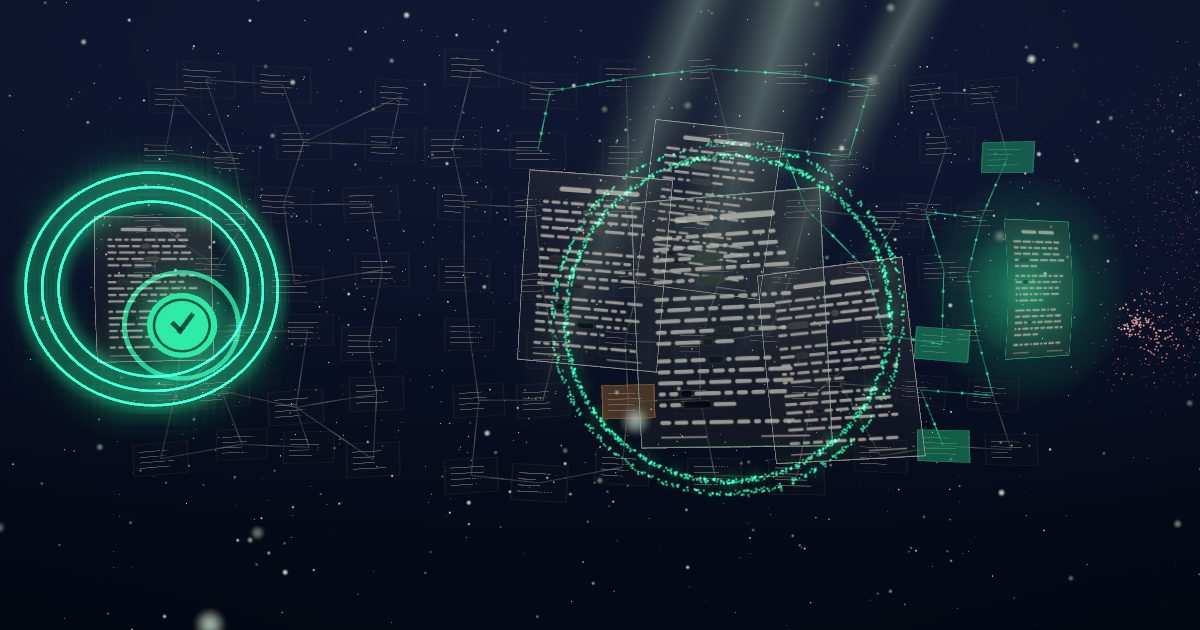
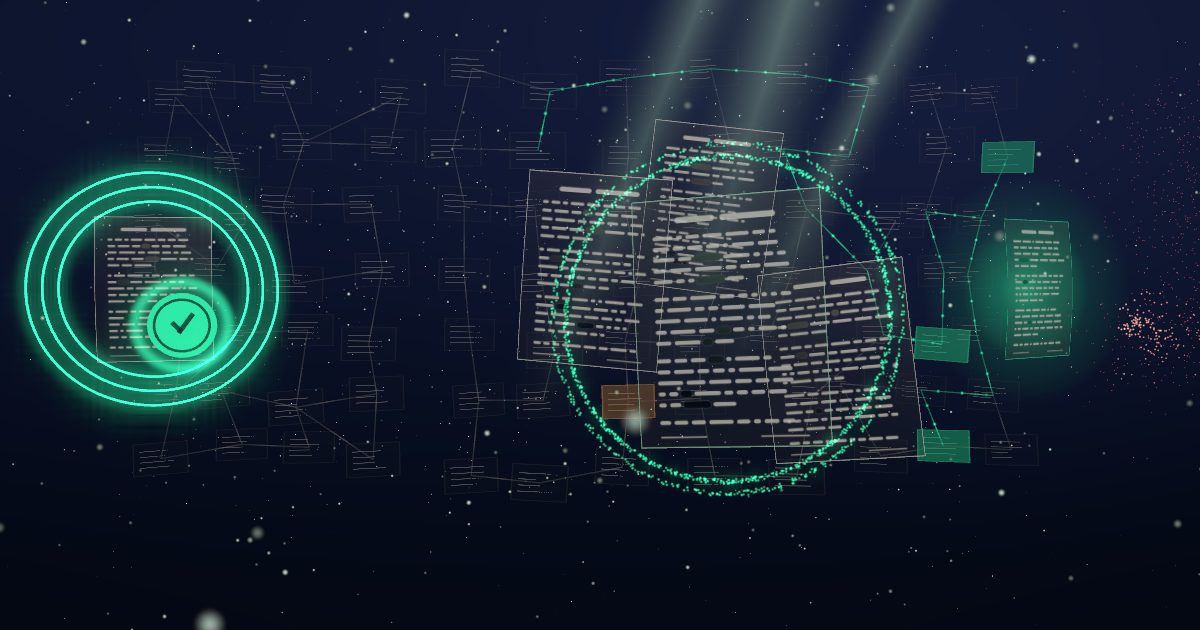
fix(frontend): dawn polish: AA seal mark, visible lattice, soft shockwave
The seal's check mark takes near-white or deep navy, whichever reads better on the seal green
(4.5:1 or more, tested for a range of greens). At dawn the law lattice has navy lines, a higher
opacity scale and a weaker distance fade (lines 3:1 on the sky). The shockwave is a gaussian ring
of saturated emerald light instead of a hard geometric ring, so it never reads as a grey disc.
The still renderer takes a scene clock (--seconds) to show the ring mid-expansion.

Refs: FR-68, NFR-08

Changed region(s): [[0.0925, 0.4222, 0.2158, 0.6032]]

diff --git a/frontend/src/features/landing/cinematic/scene.ts b/frontend/src/features/landing/cinematic/scene.ts
@@ -387,12 +387,13 @@ export function createCinematicScene(
       track(new PlaneGeometry(1.35, 0.86)),
       material(glsl.latticeVertex, glsl.latticeFragment, {
         uGlass: { value: glassColour },
-        uStroke: { value: strokeColour },
+        uStroke: { value: colour(palette.latticeLine) },
+        uDepthFade: { value: palette.latticeDepthFade },
         uVerified: { value: verified },
         uAmber: { value: amber },
         uSearch: search,
         uFade: latticeFade,
-        uOpacityScale: { value: Math.min(palette.glassOpacity, 2.5) },
+        uOpacityScale: { value: palette.latticeOpacity },
       }),
       count,
     )
@@ -466,9 +467,10 @@ export function createCinematicScene(
       glsl.edgeVertex,
       glsl.edgeFragment,
       {
-        uStroke: { value: strokeColour },
+        uStroke: { value: colour(palette.latticeLine) },
         uVerified: { value: verified },
         uSearch: search,
+        uDepthFade: { value: palette.latticeDepthFade },
         uFade: latticeFade,
         uOpacityScale: { value: Math.min(palette.glassOpacity, 2.5) },
       },
@@ -522,14 +524,14 @@ export function createCinematicScene(
   seal.position.set(0.55, -0.7, 0.35)
   verify.add(seal)
   const sealMaterial = material(glsl.flatVertex, glsl.flatFragment, {
-    uColour: { value: verified },
+    uColour: { value: colour(palette.sealFill) },
     uOpacity: { value: 0 },
   })
   const disc = new Mesh(track(new CylinderGeometry(0.62, 0.62, 0.06, 72)), sealMaterial)
   disc.rotation.x = Math.PI / 2
   seal.add(disc)
   const markMaterial = material(glsl.flatVertex, glsl.flatFragment, {
-    uColour: { value: ink },
+    uColour: { value: colour(palette.sealMark) },
     uOpacity: { value: 0 },
   })
   const innerRing = new Mesh(track(new RingGeometry(0.47, 0.52, 72)), markMaterial)
@@ -557,12 +559,17 @@ export function createCinematicScene(
   sealGlow.position.z = -0.05
   seal.add(sealGlow)
   const shockMaterial = material(
-    glsl.flatVertex,
-    glsl.flatFragment,
-    { uColour: { value: glowColour }, uOpacity: { value: 0 } },
+    glsl.shaftVertex,
+    glsl.ringFragment,
+    {
+      uColour: { value: colour(palette.shockwave) },
+      uOpacity: { value: 0 },
+      uRadius: { value: 0.78 },
+      uWidth: { value: 0.1 },
+    },
     true,
   )
-  const shock = new Mesh(track(new RingGeometry(0.92, 1, 96)), shockMaterial)
+  const shock = new Mesh(track(new PlaneGeometry(2, 2)), shockMaterial)
   shock.position.z = 0.02
   seal.add(shock)
 
@@ -906,7 +913,7 @@ export function createCinematicScene(
     const landed = ramp(beats.seal, 0.6, 1)
     const phase = beats.seal >= 1 ? (seconds * 0.35) % 1 : landed
     shock.scale.setScalar(0.7 + phase * 3.6)
-    setOpacity(shockMaterial, beats.seal > 0.6 ? (1 - phase) ** 2 * 0.85 : 0)
+    setOpacity(shockMaterial, beats.seal > 0.6 ? (1 - phase) ** 2 * palette.shockwaveAlpha : 0)
 
     heroFade.value = 1 - ramp(t, 0.62, 0.7) + ramp(t, 0.8, 0.9)
     hero.visible = heroFade.value > 0.01

diff --git a/frontend/src/features/landing/cinematic/palette.ts b/frontend/src/features/landing/cinematic/palette.ts
@@ -46,6 +46,16 @@ export interface ScenePalette {
   glassOpacity: number
   /** Warm or cool light near the top of the sky. */
   sun: string
+  /** The seal disc and the colour of its check mark (readable on it, AA). */
+  sealFill: string
+  sealMark: string
+  /** Law lattice: line colour, opacity scale and how fast it fades with distance (0 = never). */
+  latticeLine: string
+  latticeOpacity: number
+  latticeDepthFade: number
+  /** The soft ring that spreads from the seal: colour and peak opacity. */
+  shockwave: string
+  shockwaveAlpha: number
 }
 
 function channels(hex: string): [number, number, number] {
@@ -63,6 +73,27 @@ export function mixHex(a: string, b: string, amount: number): string {
         .padStart(2, '0'),
     )
     .join('')}`
+}
+
+function relativeLuminance(hex: string): number {
+  const [r, g, b] = channels(hex).map((value) => {
+    const c = value / 255
+    return c <= 0.04045 ? c / 12.92 : ((c + 0.055) / 1.055) ** 2.4
+  })
+  return 0.2126 * (r ?? 0) + 0.7152 * (g ?? 0) + 0.0722 * (b ?? 0)
+}
+
+/** WCAG contrast ratio of two hex colours. */
+export function contrastRatio(a: string, b: string): number {
+  const [hi, lo] = [relativeLuminance(a), relativeLuminance(b)].sort((x, y) => y - x)
+  return ((hi ?? 0) + 0.05) / ((lo ?? 0) + 0.05)
+}
+
+/** Of near-white and deep navy, the one that reads better on `fill` (always AA for a green). */
+function markOn(fill: string): string {
+  const light = '#ffffff'
+  const dark = '#0b1020'
+  return contrastRatio(light, fill) >= contrastRatio(dark, fill) ? light : dark
 }
 
 export function scenePalette(scheme: Scheme, tokens: ThemeTokens): ScenePalette {
@@ -91,6 +122,13 @@ export function scenePalette(scheme: Scheme, tokens: ThemeTokens): ScenePalette 
       glow: tokens.verified,
       glassOpacity: 1,
       sun: mixHex(tokens.background, '#3b4a8f', 0.45),
+      sealFill: tokens.verified,
+      sealMark: markOn(tokens.verified),
+      latticeLine: mixHex(tokens.foreground, tokens.background, 0.3),
+      latticeOpacity: 1,
+      latticeDepthFade: 1,
+      shockwave: tokens.verified,
+      shockwaveAlpha: 0.85,
     }
   }
   return {
@@ -112,5 +150,15 @@ export function scenePalette(scheme: Scheme, tokens: ThemeTokens): ScenePalette 
     glow: mixHex(tokens.verified, '#10b981', 0.55),
     glassOpacity: 4,
     sun: '#ffd6a8',
+    // A deeper emerald than the token so the white check mark reads at 4.5:1 or better.
+    sealFill: tokens.verified,
+    sealMark: markOn(tokens.verified),
+    // Navy lines and quietly lit cards that stay visible even when the camera is far away.
+    latticeLine: mixHex(tokens.foreground, '#ffffff', 0.05),
+    latticeOpacity: 3.6,
+    latticeDepthFade: 0.25,
+    // A saturated emerald light, soft-edged in the shader; never a grey disc.
+    shockwave: '#12a874',
+    shockwaveAlpha: 0.62,
   }
 }

diff --git a/frontend/src/features/landing/cinematic/palette.test.ts b/frontend/src/features/landing/cinematic/palette.test.ts
@@ -73,4 +73,63 @@ describe('scenePalette', () => {
       }
     }
   })
+
+  function saturation(hex: string): number {
+    const [r, g, b] = [1, 3, 5].map((i) => parseInt(hex.slice(i, i + 2), 16) / 255)
+    const max = Math.max(r ?? 0, g ?? 0, b ?? 0)
+    const min = Math.min(r ?? 0, g ?? 0, b ?? 0)
+    return max === 0 ? 0 : (max - min) / max
+  }
+  const sky = (palette: ReturnType<typeof scenePalette>) =>
+    [palette.skyTop, palette.skyBottom] as const
+
+  it('FR-68 the check mark on the seal reaches AA (4.5:1) against the seal, in both themes', () => {
+    for (const [scheme, tokens] of [
+      ['dark', DARK],
+      ['light', LIGHT],
+    ] as const) {
+      const palette = scenePalette(scheme, tokens)
+      expect(contrast(palette.sealMark, palette.sealFill), `${scheme} seal`).toBeGreaterThanOrEqual(
+        4.5,
+      )
+    }
+  })
+
+  it('FR-68 picks a readable mark colour for any seal green, light or dark', () => {
+    for (const green of ['#0f7a52', '#0b6b45', '#3ee0a5', '#19b27d', '#2f9e6f', '#a7f3d0']) {
+      for (const scheme of ['dark', 'light'] as const) {
+        const palette = scenePalette(scheme, {
+          ...(scheme === 'dark' ? DARK : LIGHT),
+          verified: green,
+        })
+        expect(
+          contrast(palette.sealMark, palette.sealFill),
+          `${scheme} ${green}`,
+        ).toBeGreaterThanOrEqual(4.5)
+      }
+    }
+  })
+
+  it('FR-68 the law lattice stands out from the sky at dawn (lines 3:1, cards brighter than the sky)', () => {
+    const palette = scenePalette('light', LIGHT)
+    for (const colour of sky(palette)) {
+      expect(contrast(palette.latticeLine, colour)).toBeGreaterThanOrEqual(3)
+    }
+    expect(palette.latticeOpacity).toBeGreaterThanOrEqual(2.5)
+    expect(palette.latticeDepthFade).toBeLessThanOrEqual(0.5)
+  })
+
+  it('FR-68 the shockwave is a coloured light ring, not a grey one, visible on both skies', () => {
+    for (const [scheme, tokens] of [
+      ['dark', DARK],
+      ['light', LIGHT],
+    ] as const) {
+      const palette = scenePalette(scheme, tokens)
+      expect(saturation(palette.shockwave), `${scheme} saturation`).toBeGreaterThanOrEqual(0.4)
+      for (const colour of sky(palette)) {
+        expect(contrast(palette.shockwave, colour), `${scheme} on sky`).toBeGreaterThanOrEqual(1.8)
+      }
+      expect(palette.shockwaveAlpha).toBeGreaterThanOrEqual(0.5)
+    }
+  })
 })

diff --git a/frontend/src/features/landing/cinematic/shaders.ts b/frontend/src/features/landing/cinematic/shaders.ts
@@ -325,6 +325,7 @@ uniform vec3 uAmber;
 uniform float uSearch;
 uniform float uFade;
 uniform float uOpacityScale;
+uniform float uDepthFade;
 varying vec2 vUv;
 varying float vMatch;
 varying float vAmber;
@@ -349,7 +350,7 @@ void main() {
   colour = mix(colour, uVerified, clamp(match * (border * 2.2 + 0.35), 0.0, 1.0) * uFade);
   colour = mix(colour, uAmber, clamp(amber * border * 1.2, 0.0, 1.0) * uFade);
   alpha += match * 0.35 + amber * 0.2;
-  alpha *= uFade * uOpacityScale * clamp(1.5 - vDepth / 30.0, 0.2, 1.0);
+  alpha *= uFade * uOpacityScale * clamp(1.5 - uDepthFade * vDepth / 30.0, 0.2, 1.0);
   gl_FragColor = vec4(colour, clamp(alpha, 0.0, 1.0));
   #include <colorspace_fragment>
 }
@@ -380,6 +381,7 @@ uniform float uTime;
 uniform float uSearch;
 uniform float uFade;
 uniform float uOpacityScale;
+uniform float uDepthFade;
 varying float vT;
 varying float vHot;
 varying float vOffset;
@@ -389,7 +391,7 @@ void main() {
   float pulse = exp(-x * x * 49.0);
   vec3 colour = mix(uStroke, uVerified, vHot * uSearch);
   float alpha = 0.07 + uSearch * (0.06 + 0.3 * vHot) + pulse * uSearch * (0.2 + 0.7 * vHot);
-  alpha *= uFade * uOpacityScale * clamp(1.5 - vDepth / 30.0, 0.2, 1.0);
+  alpha *= uFade * uOpacityScale * clamp(1.5 - uDepthFade * vDepth / 30.0, 0.2, 1.0);
   gl_FragColor = vec4(colour, clamp(alpha, 0.0, 1.0));
   #include <colorspace_fragment>
 }
@@ -450,6 +452,23 @@ void main() {
   float glow = 1.0 - smoothstep(0.0, 0.85, length((vUv - vec2(0.78, 0.95)) * vec2(1.4, 1.0)));
   colour = mix(colour, uGlow, clamp(glow * uGlowAmount, 0.0, 1.0));
   gl_FragColor = vec4(colour, 1.0);
+  #include <colorspace_fragment>
+}
+`
+
+/** A soft ring of light on a quad: a gaussian across the ring, faded at the quad's edge. */
+export const ringFragment = /* glsl */ `
+uniform vec3 uColour;
+uniform float uOpacity;
+uniform float uRadius;
+uniform float uWidth;
+varying vec2 vUv;
+void main() {
+  float r = length((vUv - 0.5) * 2.0);
+  float d = (r - uRadius) / max(uWidth, 0.001);
+  float ring = exp(-d * d);
+  float edge = 1.0 - smoothstep(0.85, 1.0, r);
+  gl_FragColor = vec4(uColour, clamp(ring * edge * uOpacity, 0.0, 1.0));
   #include <colorspace_fragment>
 }
 `

diff --git a/frontend/src/features/landing/cinematic/renderEntry.ts b/frontend/src/features/landing/cinematic/renderEntry.ts
@@ -17,6 +17,9 @@ const scheme =
   new URLSearchParams(window.location.search).get('theme') === 'light' ? 'light' : 'dark'
 document.documentElement.dataset['theme'] = scheme
 
+// ?seconds=N sets the scene clock of the still (the shockwave repeats every 2.9 s).
+const seconds = Number(new URLSearchParams(window.location.search).get('seconds') ?? 6)
+
 const host = document.getElementById('stage')
 if (host === null) {
   throw new Error('no stage')
@@ -50,7 +53,7 @@ const CENTRED = { position: [2.3, 0.3, 11.5], target: [2.5, 0, 0] } as const
 
 window.renderStill = (t, width, height, type, centred = false) =>
   new Promise((resolve, reject) => {
-    const canvas = scene.renderStill(t, width, height, 6, centred ? CENTRED : undefined)
+    const canvas = scene.renderStill(t, width, height, seconds, centred ? CENTRED : undefined)
     canvas.toBlob(
       (blob) => {
         if (blob === null) {
